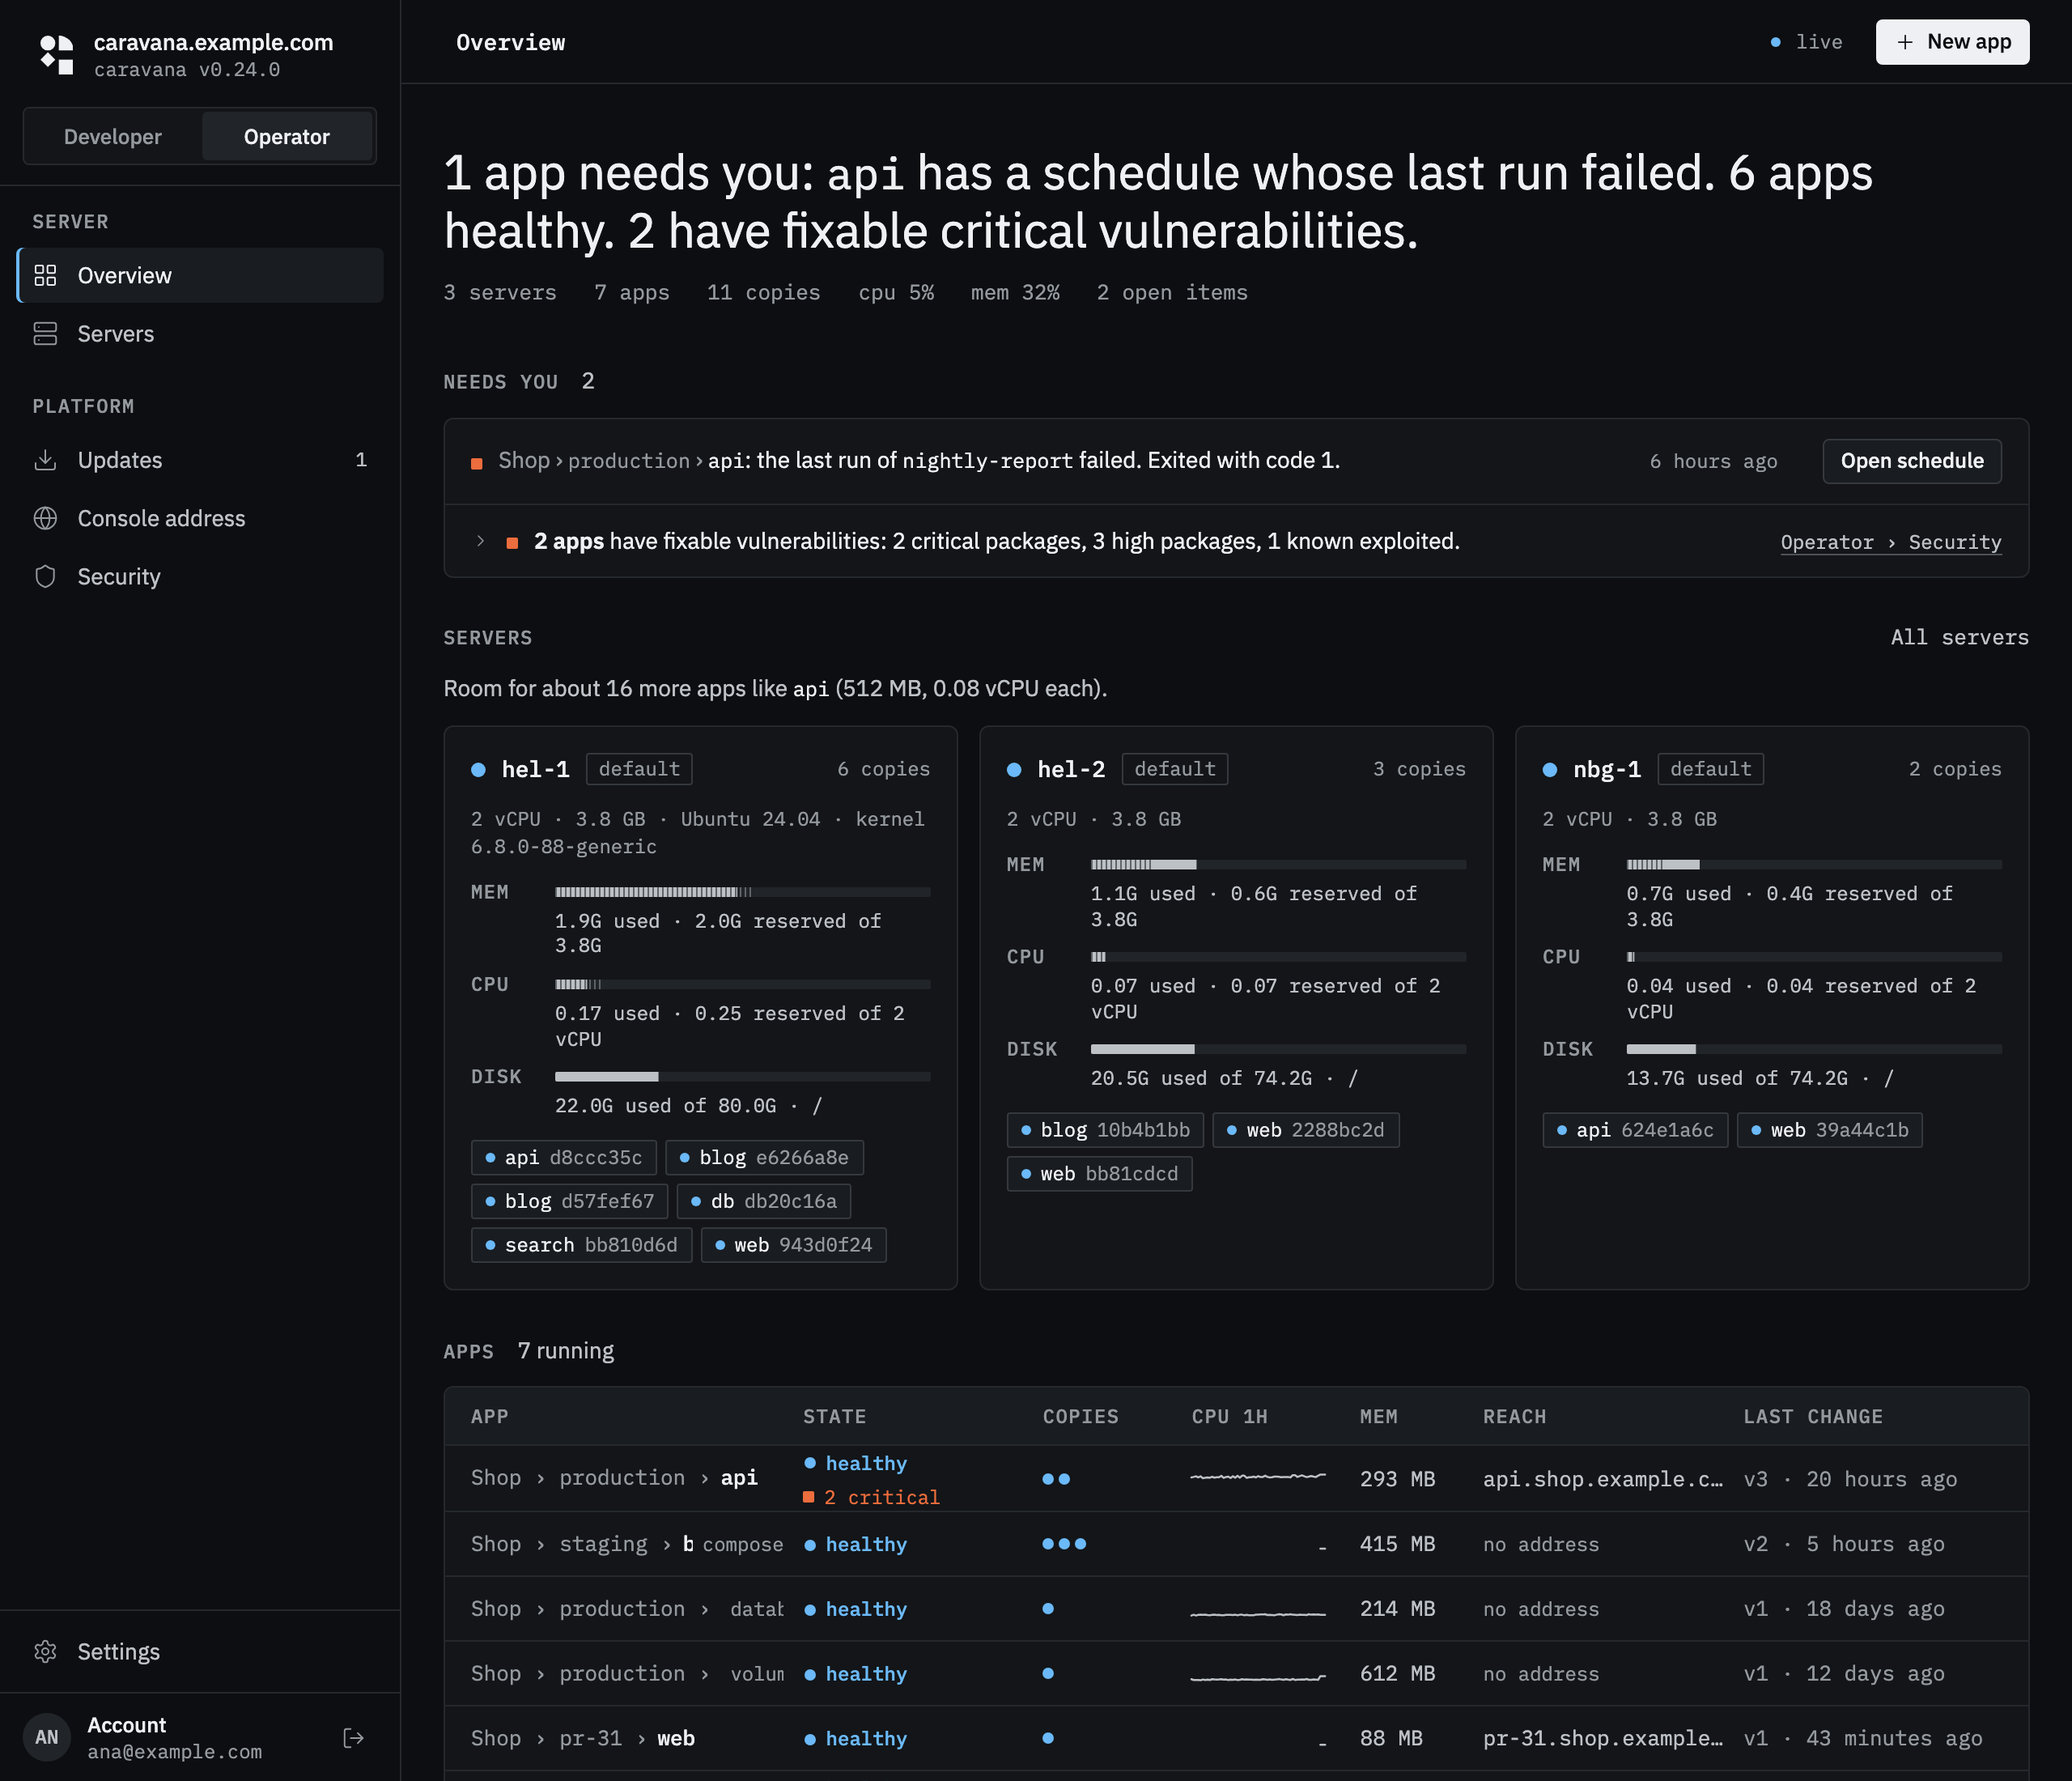
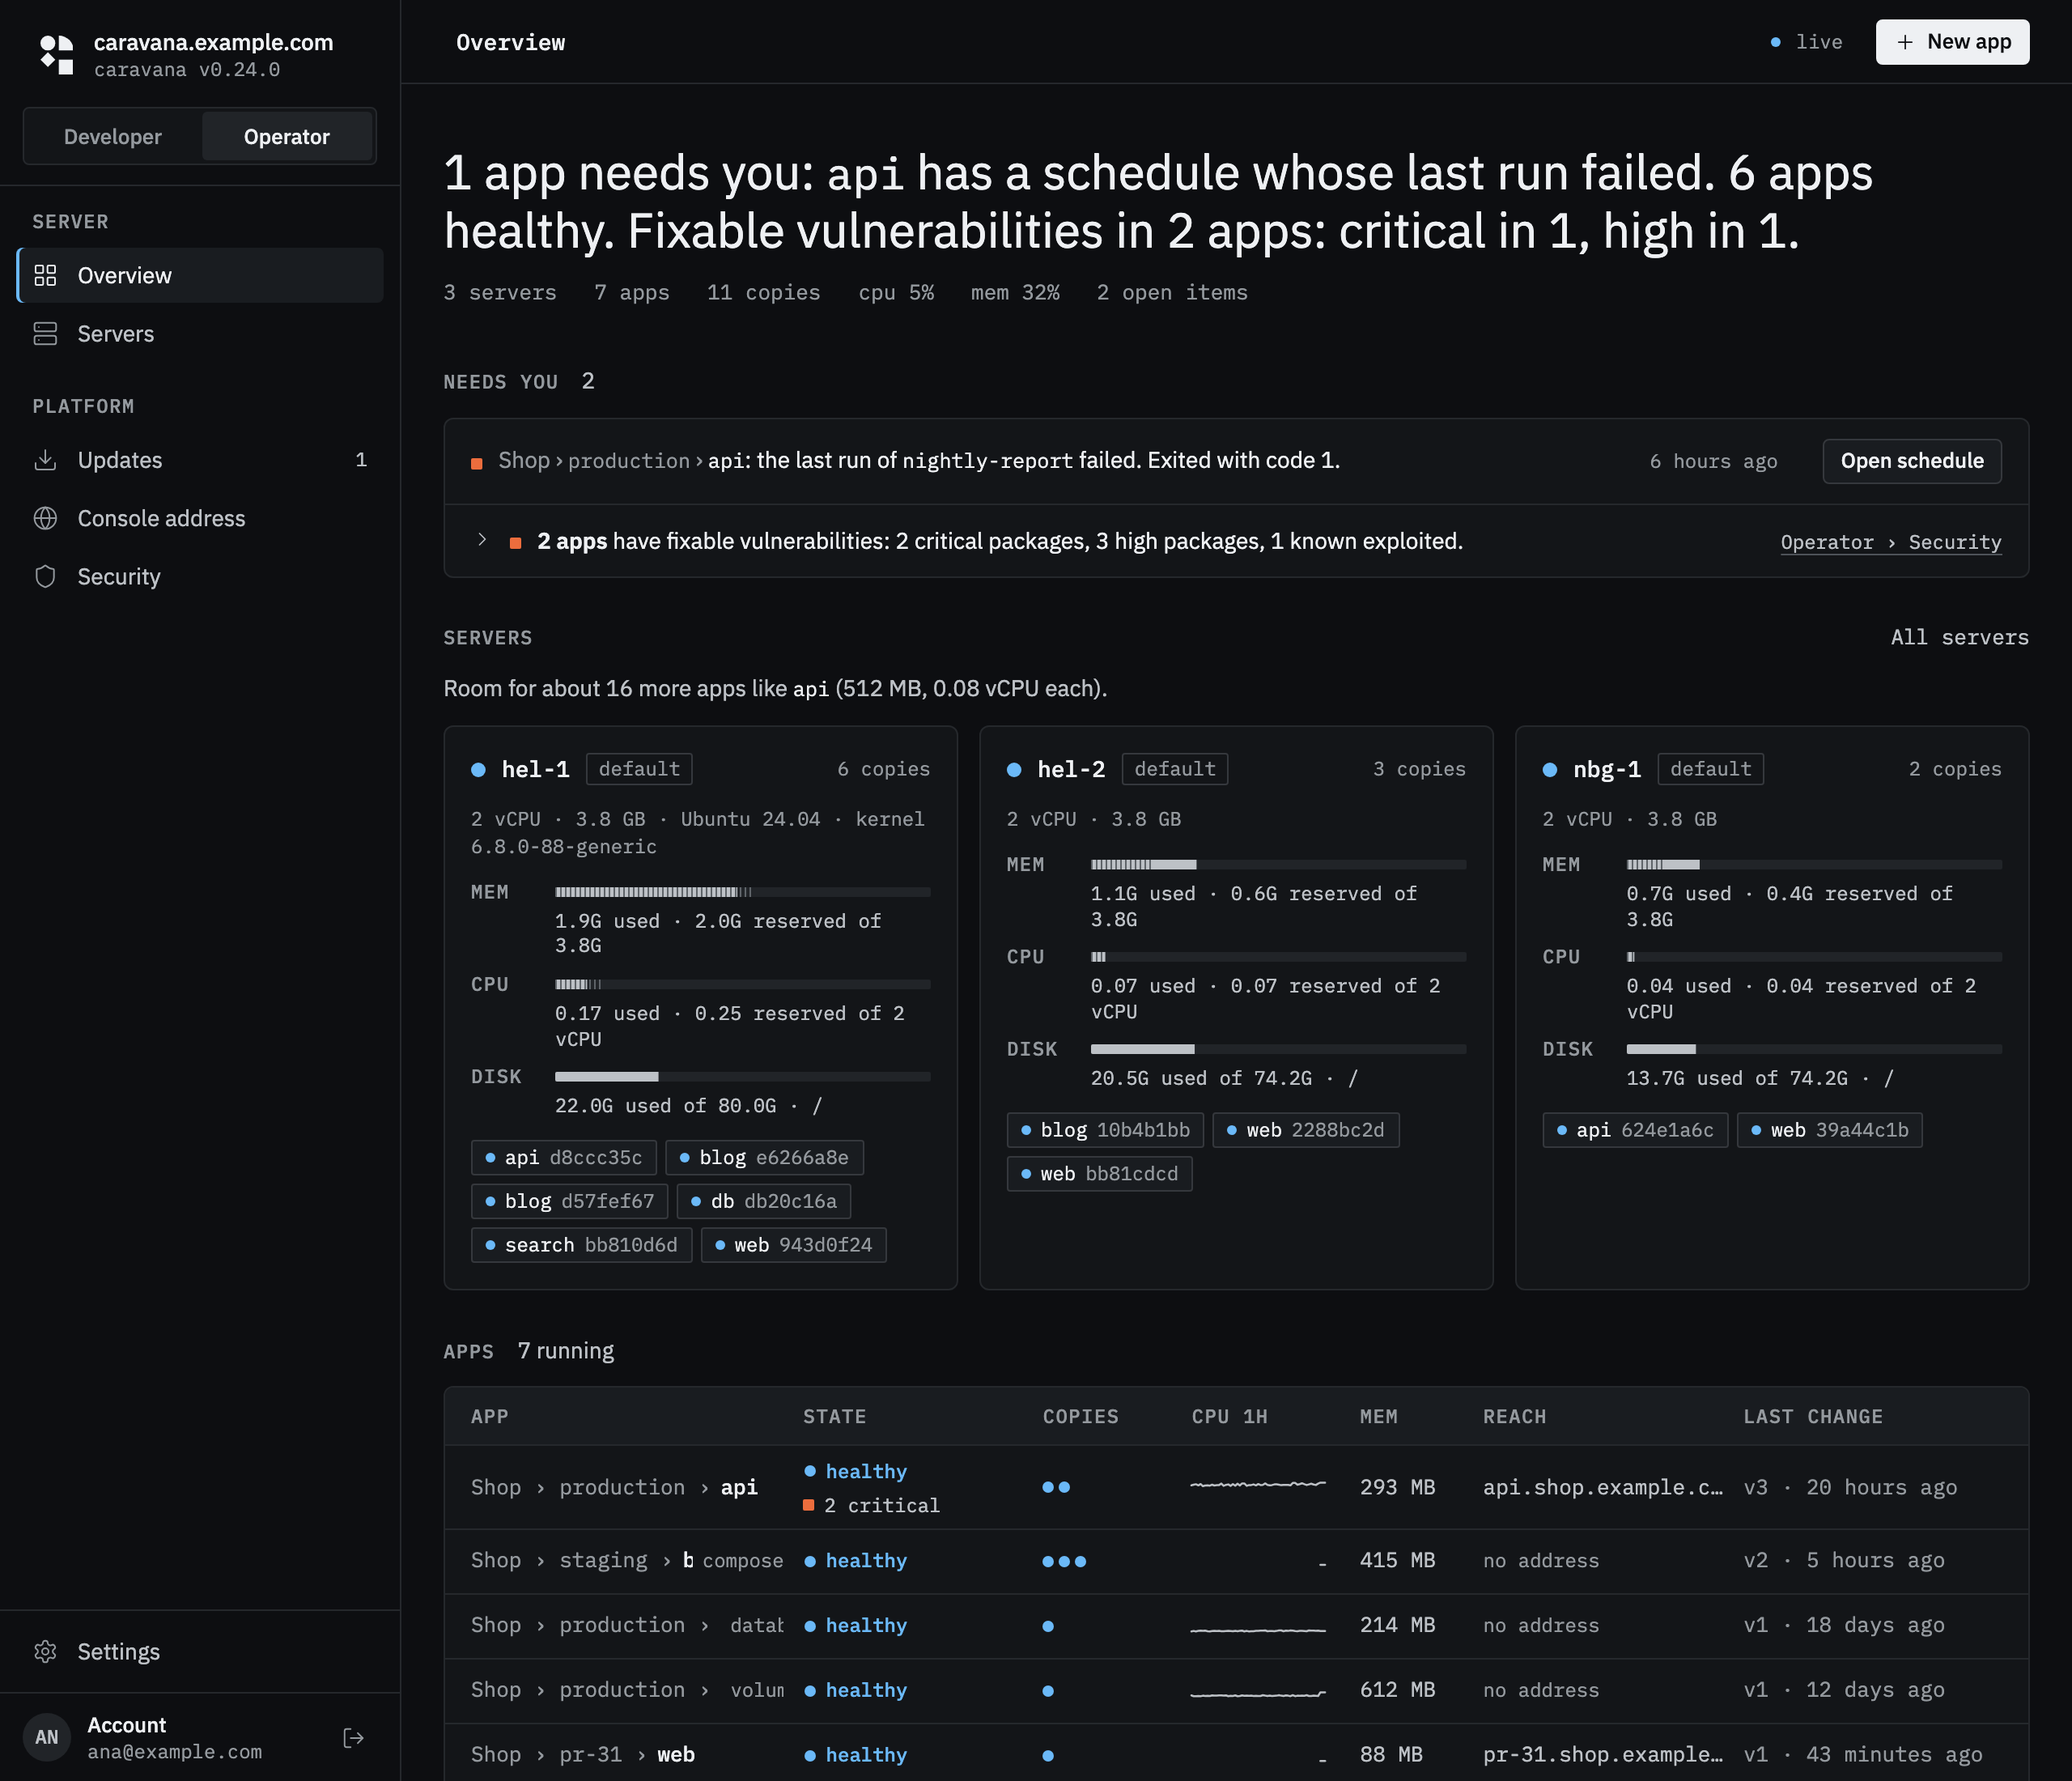
docs: image findings follow the designer's final wording and look
The headline's last sentence is quoted as it reads now ("Fixable vulnerabilities in 2 apps: critical in 1, high in 1."), the order of the apps inside the findings row is known exploited, then critical, then high, and apps-home, apps-home-security, project-page and ops-overview are retaken from alta/fancy-ferry-2jng at 2ecc501, merged in.

diff --git a/docs/guide/operate/monitoring.md b/docs/guide/operate/monitoring.md
@@ -109,7 +109,7 @@ If you installed the [image scanner](../../image-scanning.md), its findings are 
 
 > **2 apps** have fixable vulnerabilities: 2 critical packages, 3 high packages, 1 known exploited.
 
-The row is red when any package is critical and amber when they are all high. It counts the packages that have a vulnerability with a fix, at or above the level you chose in **Operator › Security** (critical by default; critical and high is a setting), in the apps you haven't stopped. Open the row for one line per app, the one with the most critical packages first: the app, its counts ("2 critical", or "3 high, 1 known exploited"), and **Open findings**, which leads to the Security panel on the app's **Deployments** tab. Owners and admins also get a link to **Operator › Security** in the row. A list that has only this row doesn't say "Nothing needs you.": it shows the row.
+The row is red when any package is critical and amber when they are all high. It counts the packages that have a vulnerability with a fix, at or above the level you chose in **Operator › Security** (critical by default; critical and high is a setting), in the apps you haven't stopped. Open the row for one line per app, apps with a known exploited vulnerability first, then those with critical packages, then high: the app, its counts ("2 critical", or "3 high, 1 known exploited"), and **Open findings**, which leads to the Security panel on the app's **Deployments** tab. Owners and admins also get a link to **Operator › Security** in the row. A list that has only this row doesn't say "Nothing needs you.": it shows the row.
 
 <picture>
   <source media="(prefers-color-scheme: dark)" srcset="../../images/apps-home-security-dark.png">

diff --git a/docs/image-scanning.md b/docs/image-scanning.md
@@ -76,7 +76,8 @@ through the scan job's own Nomad Variable, which is deleted with the job; no pag
   An app with none has no tag. The tag links to the Security panel, except on the project's page, where the whole
   row is a link.
 - **The Apps page's top sentence** counts outages, not findings: an app whose only items are findings counts as
-  healthy. A last sentence says how many apps have them, for example "3 have fixable critical vulnerabilities."
+  healthy. A last sentence says how many apps have them, judging each app by its worst level: "Fixable critical
+  vulnerabilities in 3 apps.", or, when the apps differ, "Fixable vulnerabilities in 6 apps: critical in 5, high in 1."
 - **Your notification channels** get one message for each app, service and package with a fixable vulnerability at
   or above the notify level, like every other item: it names the package, its version, the advisory and the fixed
   version. `GET /v1/attention` lists them the same way, one item each.

diff --git a/docs/guide/console.md b/docs/guide/console.md
@@ -62,7 +62,7 @@ read, so a problem leaves it when it is fixed. [Monitoring](operate/monitoring.m
 The sentence at the top names an app by its name (`api`), not by its ID. It counts outages: an app
 whose only items are image findings counts as healthy. If you installed the [image
 scanner](../image-scanning.md), a last sentence says how many apps have fixable vulnerabilities, for
-example "2 have fixable critical vulnerabilities." Those findings are not a row each in the list: they are
+example "Fixable vulnerabilities in 2 apps: critical in 1, high in 1." Those findings are not a row each in the list: they are
 one closed row at its end, and an app that has some shows a small tag such as "■ 2 critical" under
 its status in the table. [Monitoring](operate/monitoring.md#image-findings) and [Image
 scanning](../image-scanning.md#what-you-see) say more.
